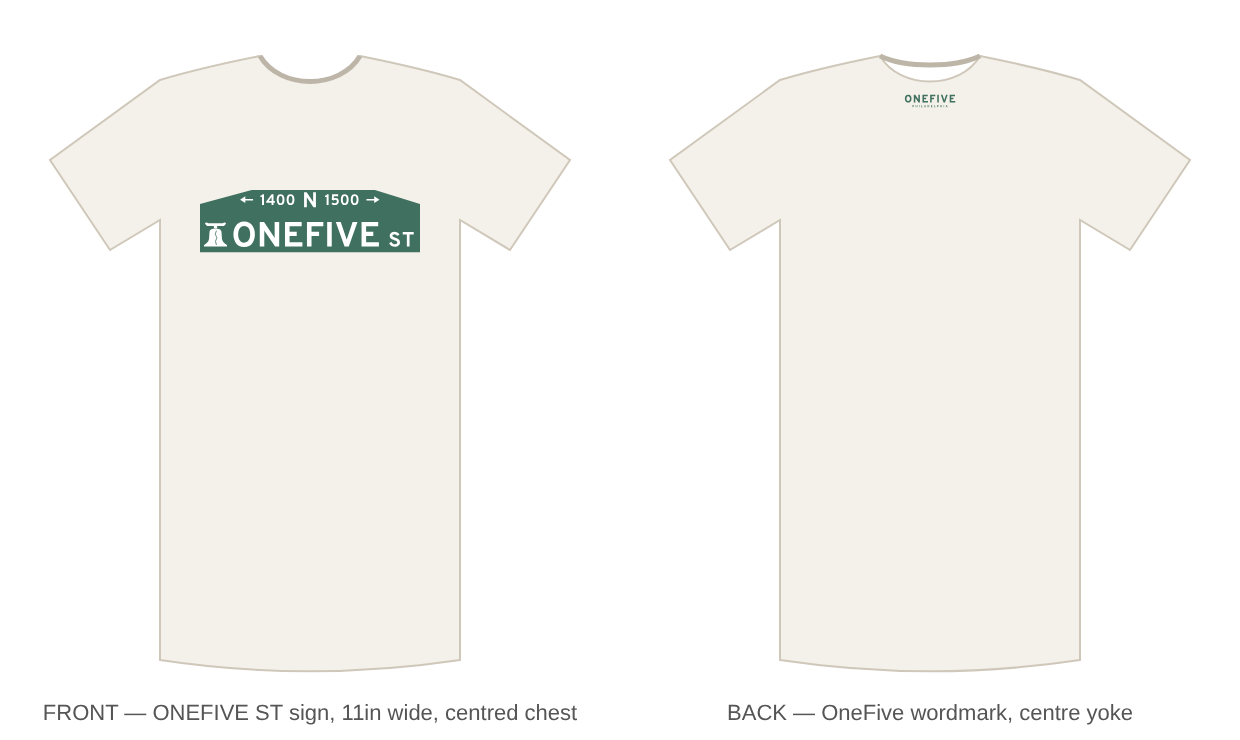
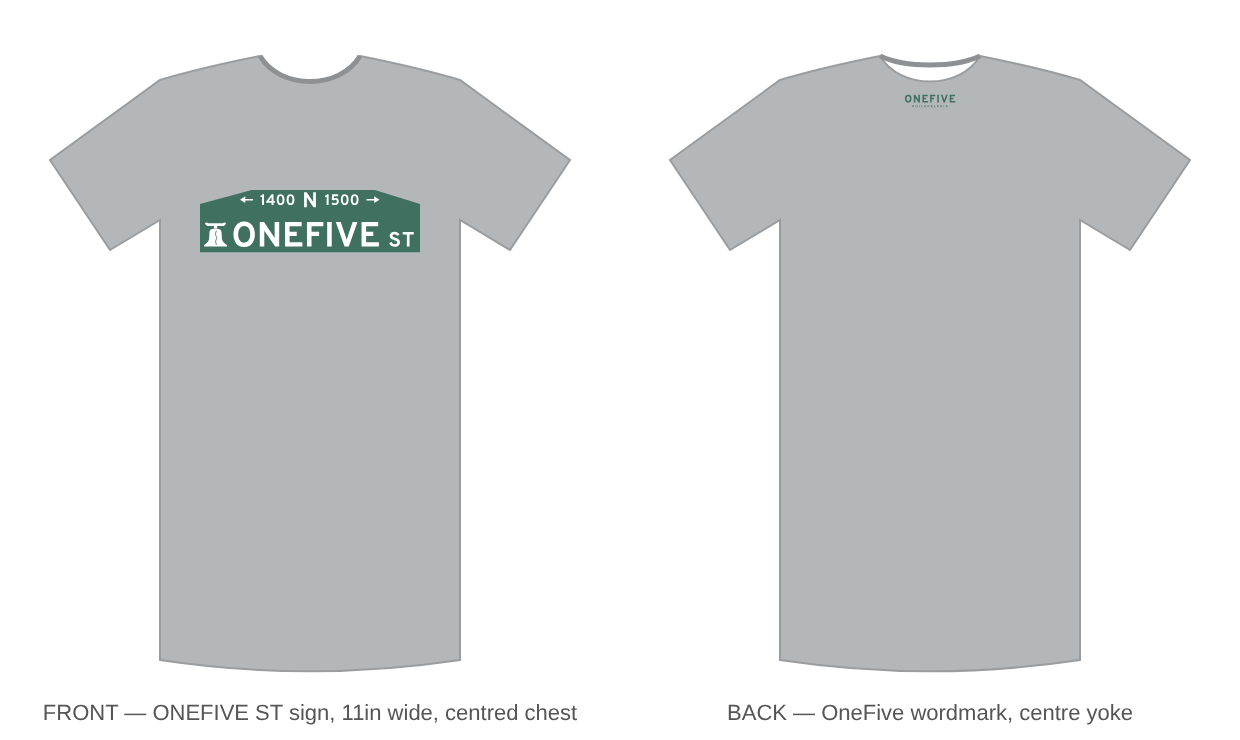
Tee mockup: heather grey shirt
Claude-Session: https://claude.ai/code/session_019cGHCWsGXbCMTpq7Vq5rGj

diff --git a/merch/tshirt/mock.py b/merch/tshirt/mock.py
@@ -6,10 +6,10 @@ def inner(f):
 front,yoke=inner("front-street-sign.svg"),inner("back-yoke-onefive.svg")
 TEE="M150,60 C190,48 230,40 250,36 C270,70 330,70 350,36 C370,40 410,48 450,60 L560,140 L500,230 L450,200 L450,640 C350,655 250,655 150,640 L150,200 L100,230 L40,140 Z"
 def tee(x,label,art,back):
-    collar = ('<path d="M250,36 C270,70 330,70 350,36" fill="none" stroke="#bdb6a8" stroke-width="5"/>' if not back
-              else '<path d="M250,36 C275,48 325,48 350,36" fill="none" stroke="#bdb6a8" stroke-width="5"/>')
+    collar = ('<path d="M250,36 C270,70 330,70 350,36" fill="none" stroke="#8E9194" stroke-width="5"/>' if not back
+              else '<path d="M250,36 C275,48 325,48 350,36" fill="none" stroke="#8E9194" stroke-width="5"/>')
     return f'''<g transform="translate({x},20)">
- <path d="{TEE}" fill="#F4F1EA" stroke="#cfc8ba" stroke-width="2"/>{collar}
+ <path d="{TEE}" fill="#B4B7BA" stroke="#9A9DA0" stroke-width="2"/>{collar}
  {art}
  <text x="300" y="700" text-anchor="middle" font-family="sans-serif" font-size="22" fill="#555">{label}</text></g>'''
 # front: 12in sign -> 240px wide on 600px tee (approx 20px/in)

diff --git a/merch/tshirt/README.md b/merch/tshirt/README.md
@@ -8,9 +8,9 @@
 | `front-street-sign-no-st.svg` | Alternate front: same sign, no "ST" | 11in × 3.1in | Same as front |
 | `back-yoke-onefive.svg` | Back, centre yoke, ~1in below collar seam | 4in × 0.8in | Green `#407060` |
 
-The front recreates the city's newer street sign (the PALMER ST style): a green sign with a raised, angled top, the `← 1400 N 1500 →` block band (the N a touch larger than the numbers), the white Liberty Bell, and **ONEFIVE** in place of the street name, with a smaller **ST**. Two-colour print; on a dark tee the green blade frames everything.
+The front recreates the city's newer street sign (the PALMER ST style): a green sign with a raised, angled top, the `← 1400 N 1500 →` block band (the N a touch larger than the numbers), the white Liberty Bell, and **ONEFIVE** in place of the street name, with a smaller **ST**. Two-colour print (green, white), designed for a heather grey tee.
 
-All text is converted to outlines — no fonts needed to print. Shown on a natural tee.
+All text is converted to outlines — no fonts needed to print. Shown on a heather grey tee.
 
 ## Regenerating
 
